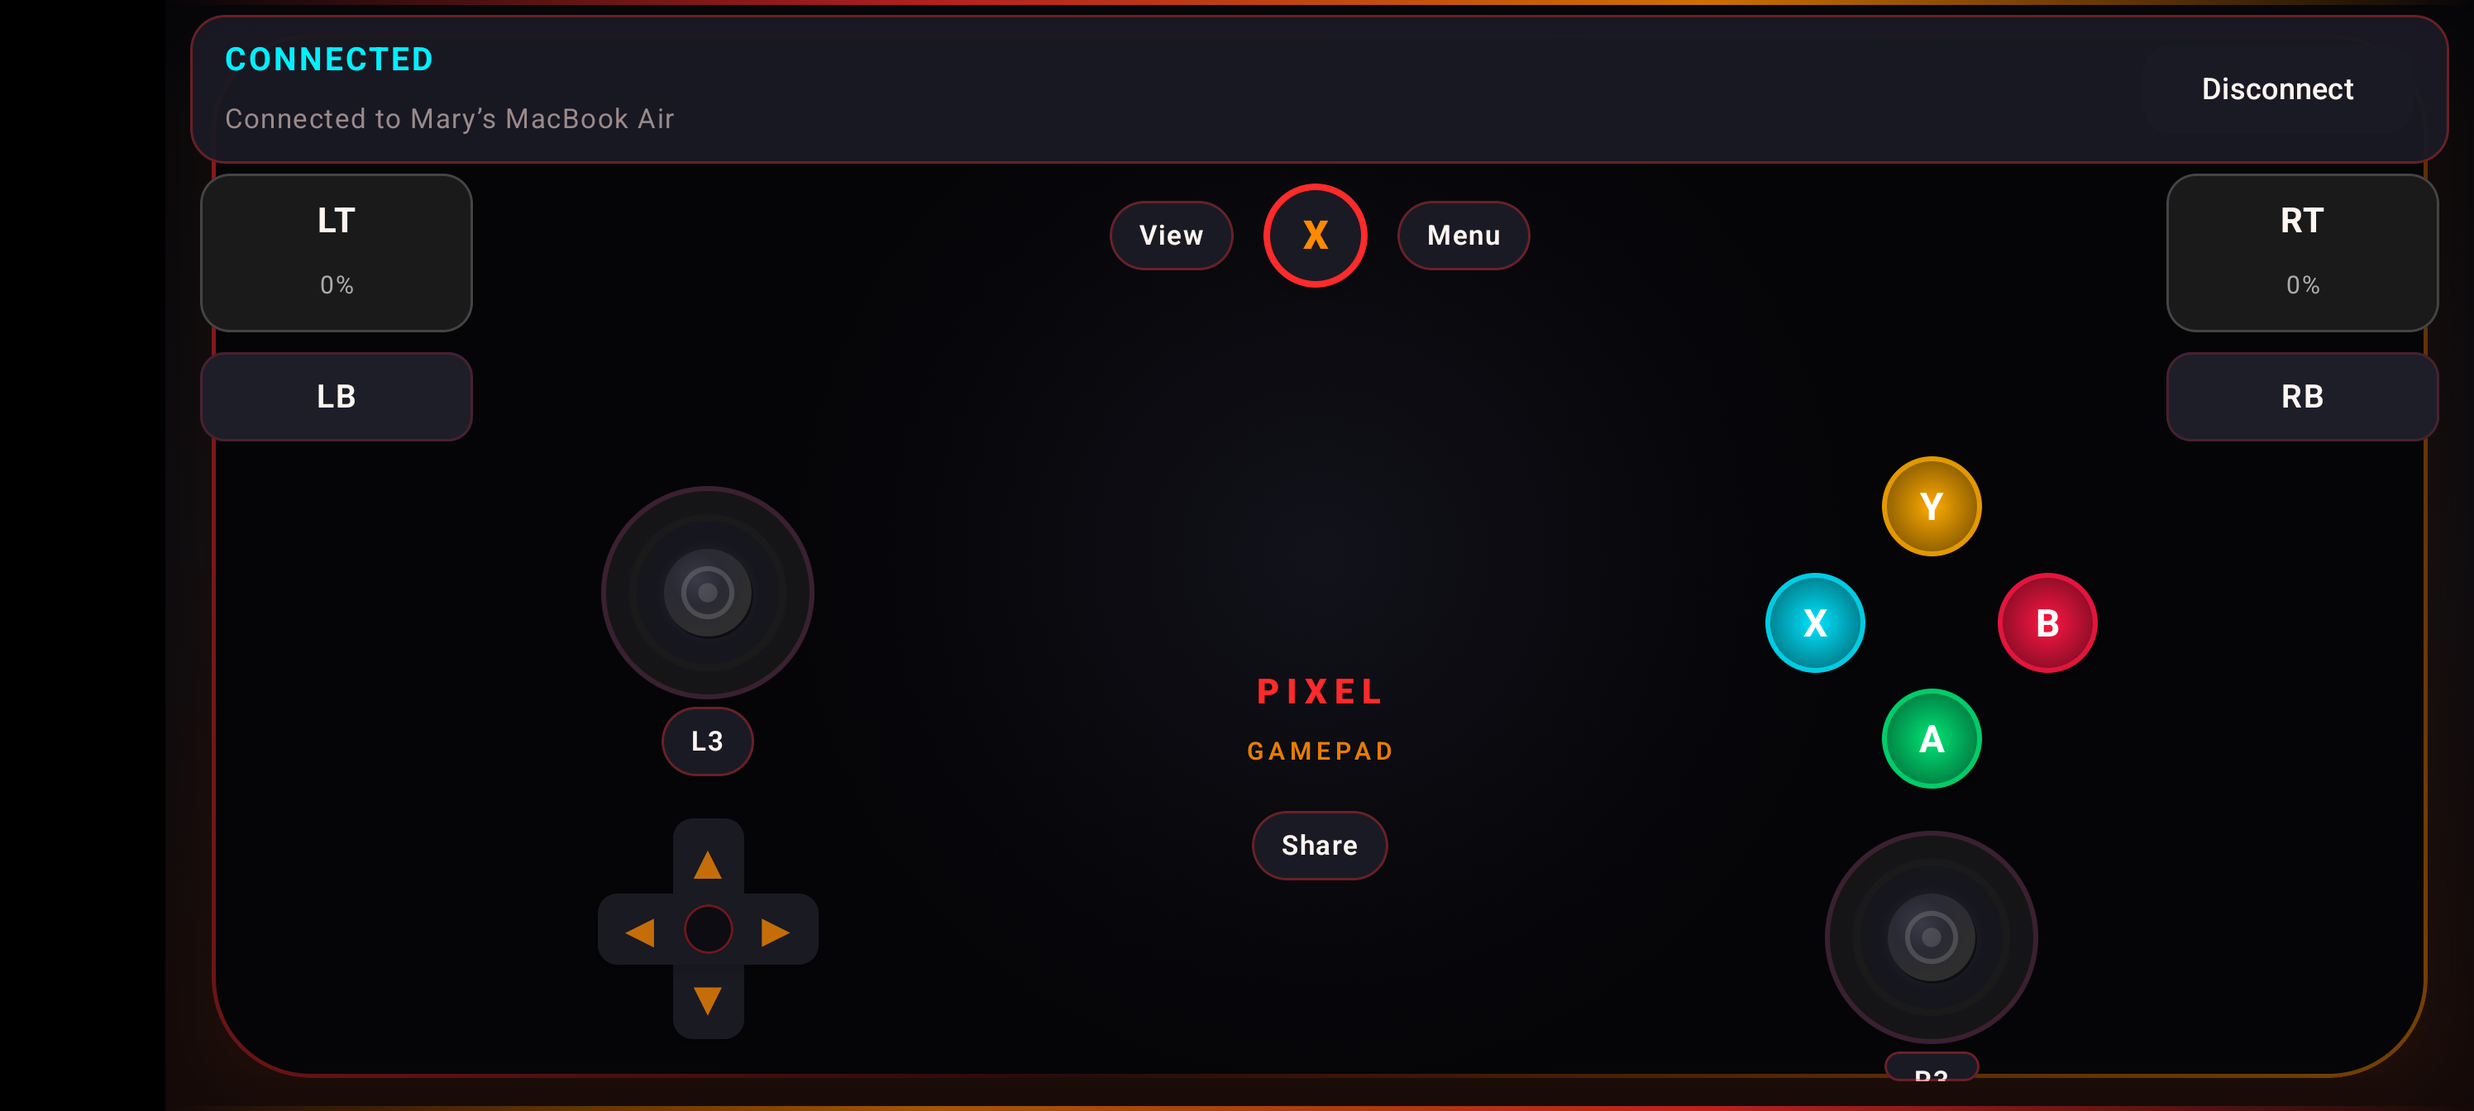
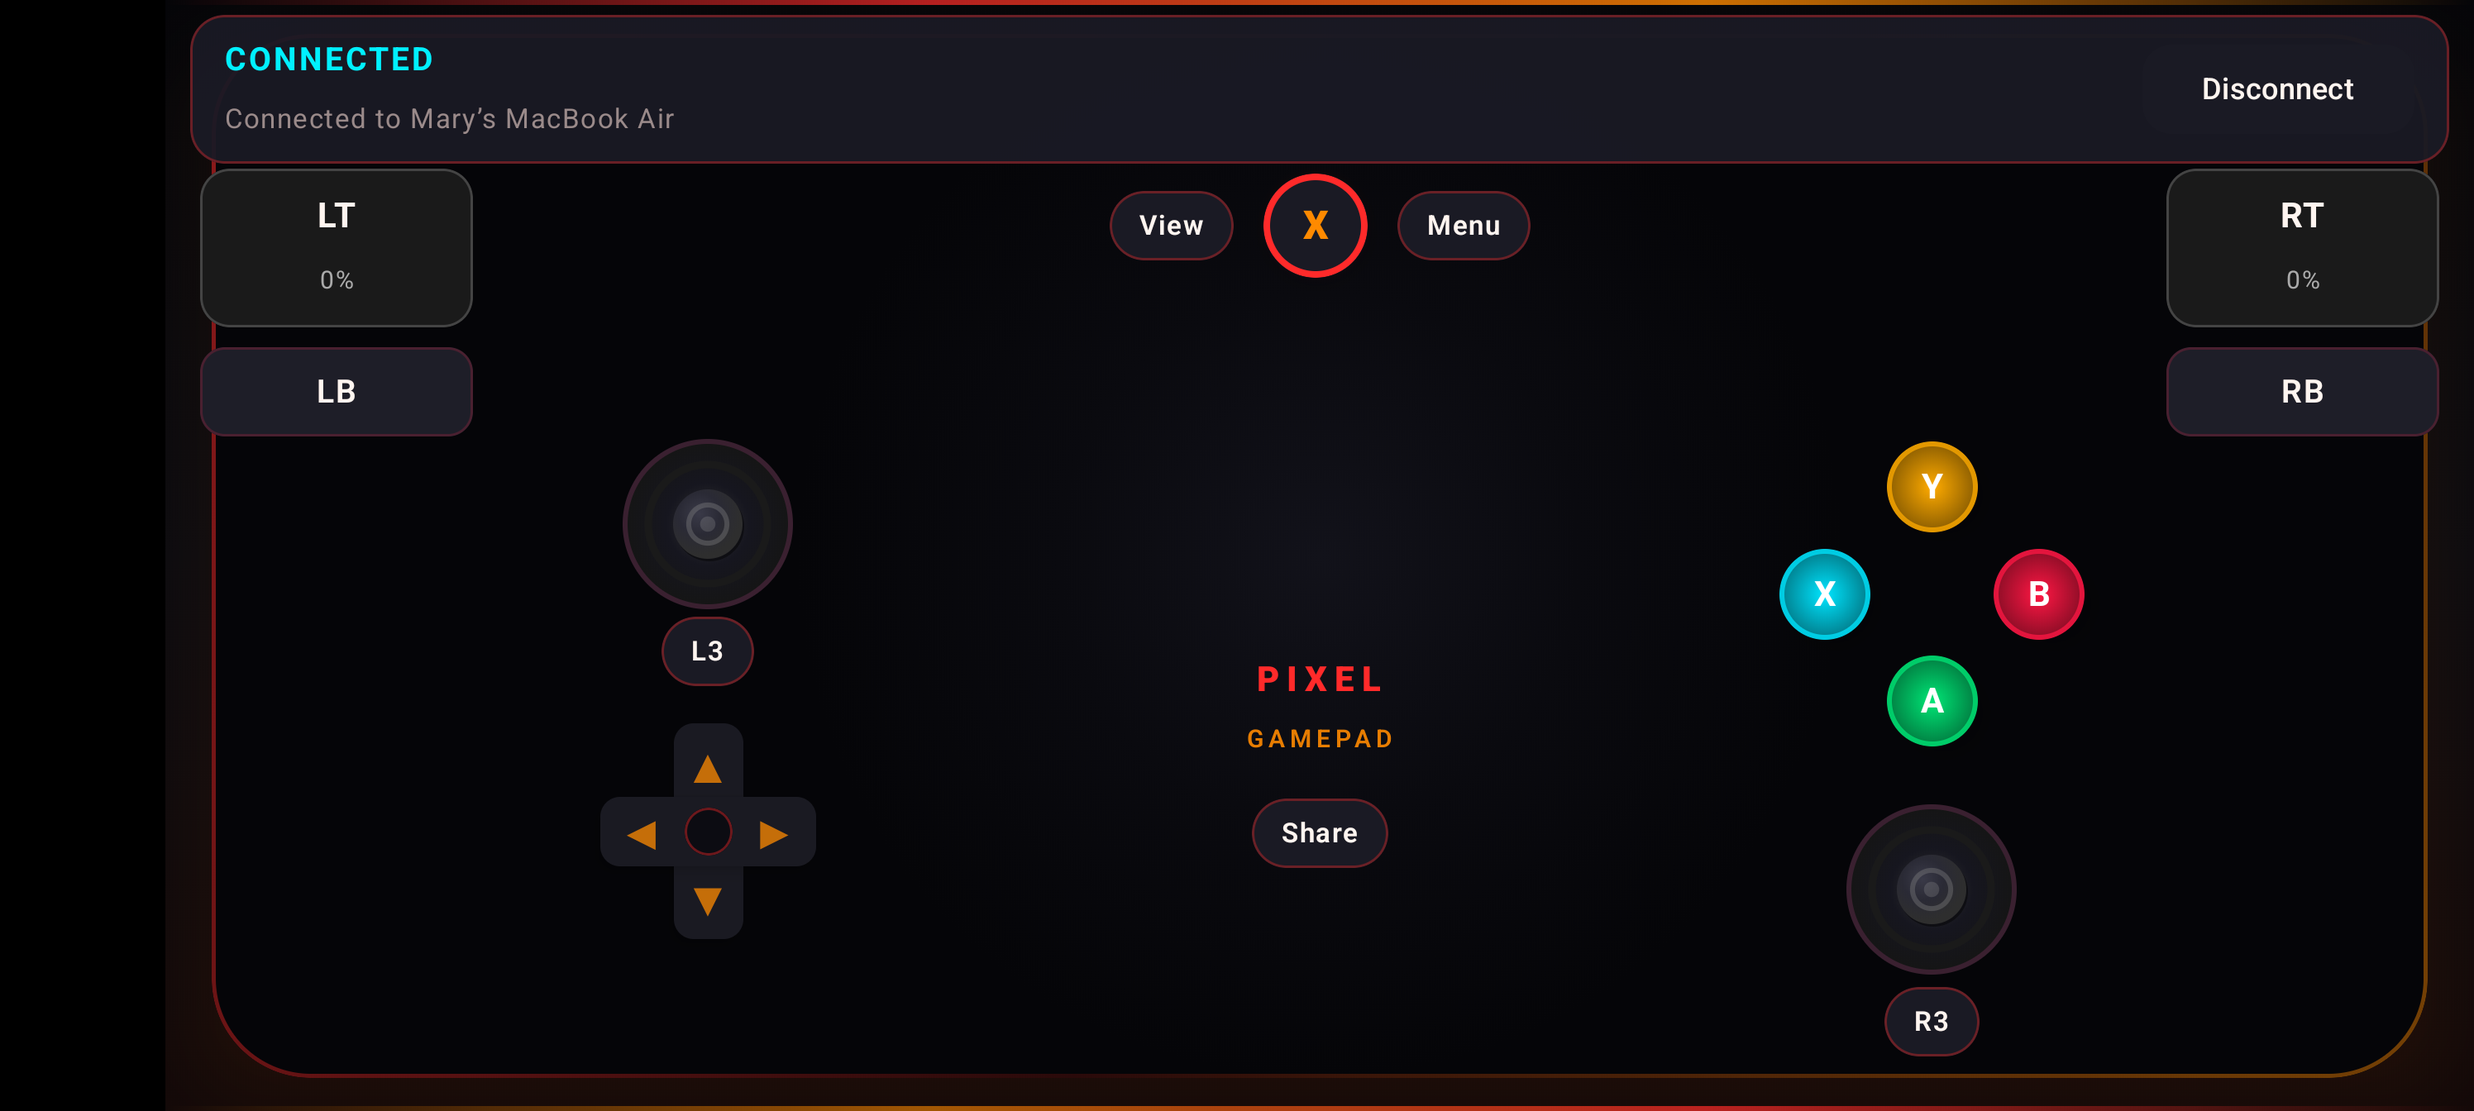
v1.4.3: RS look Y on Rx, independent L3/R3, fatter ABXY, layout polish
- Map right stick Y to HID Rx so Chrome axes[3] receives look vertical
- Stop stick drag from latching L3/R3 (menus no longer spam open while walking)
- ABXY +20% larger; L3↔D-pad spacing; lift RS/face/R3 so R3 is unclipped
- Unit tests for axis usage order; README + landscape screenshot

diff --git a/app/src/main/java/com/controller/xboxhid/ui/ControllerScreen.kt b/app/src/main/java/com/controller/xboxhid/ui/ControllerScreen.kt
@@ -121,11 +121,12 @@ fun ControllerScreen(vm: ControllerViewModel) {
         Column(
             Modifier
                 .fillMaxSize()
-                .padding(horizontal = 10.dp, vertical = 6.dp)
+                // Extra bottom inset so R3 clears the rounded shell clip
+                .padding(start = 10.dp, end = 10.dp, top = 6.dp, bottom = 14.dp)
         ) {
             StatusBar(vm, connected, advertising)
 
-            Spacer(Modifier.height(4.dp))
+            Spacer(Modifier.height(2.dp))
 
             Row(
                 Modifier
@@ -144,7 +145,7 @@ fun ControllerScreen(vm: ControllerViewModel) {
                 Row(
                     verticalAlignment = Alignment.CenterVertically,
                     horizontalArrangement = Arrangement.spacedBy(12.dp),
-                    modifier = Modifier.padding(top = 4.dp)
+                    modifier = Modifier.padding(top = 2.dp)
                 ) {
                     SmallPill("View", s.back, vm::setBack)
                     GuideButton(s.guide, vm::setGuide)
@@ -170,38 +171,39 @@ fun ControllerScreen(vm: ControllerViewModel) {
                 val availH = maxHeight
                 val availW = maxWidth
 
-                val stick = min(min(availH * 0.32f, availW * 0.22f), 148.dp)
-                val dpad = min(min(availH * 0.34f, availW * 0.24f), 148.dp)
-                // Face buttons +20% vs prior stick*0.40 / 52dp caps
-                val faceBtn = min(stick * 0.48f, 62.dp)
-                val faceSpan = min(stick * 0.56f, 72.dp)
-                // Extra space between face cluster (A) and RS (~18dp)
-                val faceToStickGap = 18.dp
+                // Compact sticks so RS+R3 fit above shell curve
+                val stick = min(min(availH * 0.26f, availW * 0.20f), 128.dp)
+                // D-pad ~+20% vs original 148dp
+                val dpad = min(min(availH * 0.34f, availW * 0.26f), 168.dp)
+                // ABXY +20% fatter
+                val faceBtn = min(stick * 0.55f, 70.dp)
+                val faceSpan = min(stick * 0.65f, 82.dp)
+                val faceToStickGap = 12.dp
+                // L3 pill ↔ D-pad (~15px)
+                val l3ToDpadGap = 15.dp
 
                 Row(
                     Modifier.fillMaxSize(),
-                    verticalAlignment = Alignment.CenterVertically,
+                    verticalAlignment = Alignment.Top,
                     horizontalArrangement = Arrangement.SpaceBetween
                 ) {
-                    // LEFT GRIP
+                    // LEFT GRIP: LS + L3, 15dp, larger D-pad
                     Column(
                         horizontalAlignment = Alignment.CenterHorizontally,
-                        verticalArrangement = Arrangement.SpaceEvenly,
+                        verticalArrangement = Arrangement.Top,
                         modifier = Modifier
                             .weight(1f)
                             .fillMaxHeight()
-                            .padding(start = 4.dp, bottom = 6.dp)
+                            .padding(start = 4.dp, top = 0.dp, bottom = 8.dp)
                     ) {
-                        Column(horizontalAlignment = Alignment.CenterHorizontally) {
-                            Joystick(
-                                diameter = stick,
-                                active = s.leftX != 0f || s.leftY != 0f,
-                                onMove = vm::setLeftStick,
-                                onPress = { pressed -> vm.setStickL(pressed) }
-                            )
-                            Spacer(Modifier.height(4.dp))
-                            SmallPill("L3", s.stickL, vm::setStickL)
-                        }
+                        Joystick(
+                            diameter = stick,
+                            active = s.leftX != 0f || s.leftY != 0f,
+                            onMove = vm::setLeftStick
+                        )
+                        Spacer(Modifier.height(4.dp))
+                        SmallPill("L3", s.stickL, vm::setStickL)
+                        Spacer(Modifier.height(l3ToDpadGap))
                         Dpad(
                             size = dpad,
                             arm = dpad * 0.32f,
@@ -242,14 +244,14 @@ fun ControllerScreen(vm: ControllerViewModel) {
                         SmallPill("Share", s.share, vm::setShare)
                     }
 
-                    // RIGHT GRIP: face upper (moved up), gap, RS lower
+                    // RIGHT GRIP: ABXY top, RS+R3 bottom — SpaceBetween keeps R3 on-screen
                     Column(
                         horizontalAlignment = Alignment.CenterHorizontally,
-                        verticalArrangement = Arrangement.Top,
+                        verticalArrangement = Arrangement.SpaceBetween,
                         modifier = Modifier
                             .weight(1f)
                             .fillMaxHeight()
-                            .padding(end = 4.dp, top = 4.dp, bottom = 6.dp)
+                            .padding(end = 4.dp, top = 0.dp, bottom = 8.dp)
                     ) {
                         FaceButtonCluster(
                             buttonSize = faceBtn,
@@ -263,16 +265,15 @@ fun ControllerScreen(vm: ControllerViewModel) {
                             onX = vm::setButtonX,
                             onY = vm::setButtonY
                         )
-                        Spacer(Modifier.height(faceToStickGap))
-                        Spacer(Modifier.weight(1f))
                         Column(horizontalAlignment = Alignment.CenterHorizontally) {
+                            // small gap under face when SpaceBetween collapses
+                            Spacer(Modifier.height(faceToStickGap))
                             Joystick(
                                 diameter = stick,
                                 active = s.rightX != 0f || s.rightY != 0f,
-                                onMove = vm::setRightStick,
-                                onPress = { pressed -> vm.setStickR(pressed) }
+                                onMove = vm::setRightStick
                             )
-                            Spacer(Modifier.height(4.dp))
+                            Spacer(Modifier.height(6.dp))
                             SmallPill("R3", s.stickR, vm::setStickR)
                         }
                     }

diff --git a/app/src/main/java/com/controller/xboxhid/hid/HidDescriptor.kt b/app/src/main/java/com/controller/xboxhid/hid/HidDescriptor.kt
@@ -3,24 +3,37 @@ package com.controller.xboxhid.hid
 /**
  * Standard Bluetooth HID Game Pad descriptor that macOS + Chrome Gamepad API accept.
  *
- * Important design choices for macOS:
+ * Important design choices for macOS / Chrome:
  * - Generic name (not "Xbox Controller") so IOHID does not expect Microsoft's XInput HID
  * - 8-bit axes (0..255, center 128) — widely recognized
  * - Buttons first, then hat, then sticks, then triggers
  * - Report ID 1
  *
+ * Axis USAGE order is critical. Chrome/macOS expose axes sorted by usage id, not
+ * report order:
+ *   X=0x30 → axes[0], Y=0x31 → axes[1], Z=0x32 → axes[2],
+ *   Rx=0x33 → axes[3], Ry=0x34 → axes[4], Rz=0x35 → axes[5]
+ *
+ * Standard Gamepad mapping wants:
+ *   axes[0]=LSX axes[1]=LSY axes[2]=RSX axes[3]=RSY
+ * so we bind:
+ *   X=leftX, Y=leftY, Z=rightX, Rx=rightY, Ry=LT, Rz=RT
+ *
+ * (Older v1.4.x used Z/Rz for the right stick and Rx/Ry for triggers, which put
+ * rightY on axes[5] — games only read axes[3], so look up/down did nothing.)
+ *
  * Report body (9 bytes) after report id is handled by the stack:
  *
  *  Byte 0-1 : Buttons bitfield (16 buttons)
  *             bit0=A 1=B 2=X 3=Y 4=L1 5=R1 6=L2 7=R2
- *             bit8=Back 9=Start 10=L3 11=R3 12=Guide 13=Share
+ *             bit8=Back 9=Start 10=L3 11=R3 12-15=D-pad
  *  Byte 2   : Hat / D-Pad (low nibble: 0=N..7=NW, 8=release; high nibble pad)
- *  Byte 3   : Left stick X  (0..255, center 128)
- *  Byte 4   : Left stick Y
- *  Byte 5   : Right stick X
- *  Byte 6   : Right stick Y
- *  Byte 7   : LT (0..255)
- *  Byte 8   : RT (0..255)
+ *  Byte 3   : Left stick X  (0..255, center 128)   USAGE X
+ *  Byte 4   : Left stick Y                         USAGE Y
+ *  Byte 5   : Right stick X                        USAGE Z
+ *  Byte 6   : Right stick Y                        USAGE Rx
+ *  Byte 7   : LT (0..255)                          USAGE Ry
+ *  Byte 8   : RT (0..255)                          USAGE Rz
  */
 object HidDescriptor {
 
@@ -97,25 +110,20 @@ object HidDescriptor {
         0x95, 0x01,
         0x81, 0x01, // INPUT (Const)
 
-        // ----- Sticks: X, Y, Z, Rz as 8-bit absolute (0..255) -----
-        0x09, 0x30, // X  (left X)
-        0x09, 0x31, // Y  (left Y)
-        0x09, 0x32, // Z  (right X)
-        0x09, 0x35, // Rz (right Y)
+        // ----- Axes (usage order = Chrome axis index order) -----
+        // X, Y, Z, Rx, Ry, Rz  →  axes[0..5]
+        // Standard pad: LSX, LSY, RSX, RSY, LT, RT
+        0x09, 0x30, // X  left X   → axes[0]
+        0x09, 0x31, // Y  left Y   → axes[1]
+        0x09, 0x32, // Z  right X  → axes[2]
+        0x09, 0x33, // Rx right Y  → axes[3]  (look vertical)
+        0x09, 0x34, // Ry LT       → axes[4]
+        0x09, 0x35, // Rz RT       → axes[5]
         0x15, 0x00,
-        0x26, 0xFF, 0x00,
+        0x26, 0xFF, 0x00, // LOGICAL_MAXIMUM (255)
         0x75, 0x08,
-        0x95, 0x04,
-        0x81, 0x02,
-
-        // ----- Triggers: Rx, Ry as 8-bit (0..255) -----
-        0x09, 0x33, // Rx (LT)
-        0x09, 0x34, // Ry (RT)
-        0x15, 0x00,
-        0x26, 0xFF, 0x00,
-        0x75, 0x08,
-        0x95, 0x02,
-        0x81, 0x02,
+        0x95, 0x06,
+        0x81, 0x02, // INPUT (Data,Var,Abs)
 
         // END_COLLECTION
         0xC0

diff --git a/app/src/main/java/com/controller/xboxhid/ui/components/Joystick.kt b/app/src/main/java/com/controller/xboxhid/ui/components/Joystick.kt
@@ -29,6 +29,9 @@ import kotlin.math.min
 /**
  * Floating thumbstick. [onMove] receives normalized x,y in [-1,1] (y positive down).
  * Releases snap back to center.
+ *
+ * Stick click (L3/R3) is NOT tied to drag — use the separate L3/R3 pills.
+ * Previously onPress fired on every drag and spammed menus while walking.
  */
 @Composable
 fun Joystick(
@@ -37,7 +40,7 @@ fun Joystick(
     knobRatio: Float = 0.42f,
     active: Boolean = false,
     onMove: (x: Float, y: Float) -> Unit,
-    onPress: ((Boolean) -> Unit)? = null,
+    @Suppress("UNUSED_PARAMETER") onPress: ((Boolean) -> Unit)? = null,
 ) {
     var knob by remember { mutableStateOf(Offset.Zero) }
     val density = LocalDensity.current
@@ -54,7 +57,6 @@ fun Joystick(
 
                 detectDragGestures(
                     onDragStart = { offset ->
-                        onPress?.invoke(true)
                         val center = Offset(w / 2f, h / 2f)
                         val delta = offset - center
                         val clamped = clampToCircle(delta, travel)
@@ -64,12 +66,10 @@ fun Joystick(
                     onDragEnd = {
                         knob = Offset.Zero
                         onMove(0f, 0f)
-                        onPress?.invoke(false)
                     },
                     onDragCancel = {
                         knob = Offset.Zero
                         onMove(0f, 0f)
-                        onPress?.invoke(false)
                     },
                     onDrag = { change, dragAmount ->
                         change.consume()

diff --git a/app/src/main/java/com/controller/xboxhid/hid/InputReport.kt b/app/src/main/java/com/controller/xboxhid/hid/InputReport.kt
@@ -156,7 +156,12 @@ object InputReport {
         return m
     }
 
-    /** Pack [ControllerState] into a [HidDescriptor.REPORT_SIZE]-byte report body. */
+    /**
+     * Pack [ControllerState] into a [HidDescriptor.REPORT_SIZE]-byte report body.
+     *
+     * Byte layout matches descriptor usages so Chrome axes[] land correctly:
+     *  [3]=X/LSX [4]=Y/LSY [5]=Z/RSX [6]=Rx/RSY [7]=Ry/LT [8]=Rz/RT
+     */
     fun pack(state: ControllerState, out: ByteArray = ByteArray(HidDescriptor.REPORT_SIZE)): ByteArray {
         require(out.size >= HidDescriptor.REPORT_SIZE) { "report buffer too small" }
 
@@ -173,12 +178,12 @@ object InputReport {
         out[0] = (buttons and 0xFF).toByte()
         out[1] = ((buttons ushr 8) and 0xFF).toByte()
         out[2] = (hat and 0x0F).toByte()
-        out[3] = lx.toByte()
-        out[4] = ly.toByte()
-        out[5] = rx.toByte()
-        out[6] = ry.toByte()
-        out[7] = lt.toByte()
-        out[8] = rt.toByte()
+        out[3] = lx.toByte() // X  → axes[0]
+        out[4] = ly.toByte() // Y  → axes[1]
+        out[5] = rx.toByte() // Z  → axes[2]
+        out[6] = ry.toByte() // Rx → axes[3] look Y
+        out[7] = lt.toByte() // Ry → axes[4]
+        out[8] = rt.toByte() // Rz → axes[5]
         return out
     }
 

diff --git a/app/src/test/java/com/controller/xboxhid/hid/InputReportTest.kt b/app/src/test/java/com/controller/xboxhid/hid/InputReportTest.kt
@@ -156,6 +156,27 @@ class InputReportTest {
     }
 
     @Test
+    fun descriptor_axes_map_to_standard_gamepad_indices() {
+        // Chrome sorts Generic Desktop axes by usage id:
+        // X Y Z Rx Ry Rz → axes[0..5] = LSX LSY RSX RSY LT RT
+        val d = HidDescriptor.DESCRIPTOR
+        val usages = mutableListOf<Int>()
+        var i = 0
+        while (i < d.size - 1) {
+            // Look for USAGE (0x09) under Generic Desktop for axis range 0x30..0x35
+            if (d[i] == 0x09.toByte()) {
+                val u = d[i + 1].toInt() and 0xFF
+                if (u in 0x30..0x35) usages.add(u)
+            }
+            i++
+        }
+        assertEquals(
+            listOf(0x30, 0x31, 0x32, 0x33, 0x34, 0x35), // X Y Z Rx Ry Rz
+            usages
+        )
+    }
+
+    @Test
     fun subclass_is_gamepad() {
         assertEquals(0x02.toByte(), HidDescriptor.SUBCLASS_GAMEPAD)
     }

diff --git a/app/src/main/java/com/controller/xboxhid/hid/HidControllerService.kt b/app/src/main/java/com/controller/xboxhid/hid/HidControllerService.kt
@@ -169,7 +169,7 @@ class HidControllerService : Service(), HidDeviceManager.Listener {
         const val ACTION_START = "com.controller.xboxhid.START"
         const val ACTION_STOP = "com.controller.xboxhid.STOP"
         // Bump so caches/logs make the descriptor revision obvious
-        const val HID_PROTOCOL_REV = "gamepad-v1.4.1-stick-y"
+        const val HID_PROTOCOL_REV = "gamepad-v1.4.3-no-l3-drag"
 
         fun start(context: Context) {
             val i = Intent(context, HidControllerService::class.java).setAction(ACTION_START)

diff --git a/app/src/main/java/com/controller/xboxhid/ui/components/FaceButtons.kt b/app/src/main/java/com/controller/xboxhid/ui/components/FaceButtons.kt
@@ -28,8 +28,8 @@ import com.controller.xboxhid.ui.theme.FaceY
 @Composable
 fun FaceButtonCluster(
     modifier: Modifier = Modifier,
-    buttonSize: Dp = 58.dp,
-    span: Dp = 72.dp,
+    buttonSize: Dp = 70.dp,
+    span: Dp = 82.dp,
     aPressed: Boolean,
     bPressed: Boolean,
     xPressed: Boolean,

diff --git a/README.md b/README.md
@@ -4,7 +4,7 @@
 
 Turn an **Android 9+** phone into a **Bluetooth Xbox-style gamepad** with a neon cyberpunk skin. Your MacBook pairs it like a real controller — no Mac app required. Works with **Xbox Cloud Gaming** (`xbox.com/play`) via the browser Gamepad API.
 
-**v1.4.1** — Stick Y polarity fixed for Chrome/Xbox Cloud (look up = HID 0). **v1.4.0** — D-pad dual-report, cyberpunk neon UI, larger ABXY, equal sticks.
+**v1.4.3** — Right-stick look Y on HID Rx (Chrome `axes[3]`), L3/R3 no longer fire on stick drag, larger ABXY, L3↔D-pad gap, R3 unclipped. **v1.4.1** — Stick Y polarity (look up = HID 0). **v1.4.0** — D-pad dual-report + cyberpunk neon UI.
 
 ```
 Android App (Compose UI + HID Profile) ──Bluetooth──▶ Mac sees "Pixel Gamepad"
@@ -21,8 +21,10 @@ Typical latency: **~20–40 ms** over Bluetooth HID — playable for cloud gamin
 - HID report descriptor for a standard **gamepad** (8-bit dual sticks, LT/RT, 16 buttons, hat D-pad)
 - **D-pad dual-report**: hat switch **and** buttons 13–16 so Chrome / Xbox Cloud map Up/Down/Left/Right correctly
 - **Cyberpunk neon** UI (red / black / orange) — Jetpack Compose Xbox One geometry
-- Equal-size dual sticks; face buttons +20%; extra gap between A and right stick
-- Adaptive layout sized to the viewport so sticks match and the D-pad is never clipped
+- Equal-size dual sticks; face buttons +20% fatter; extra gap between A and right stick
+- **L3 / R3 independent** of stick drag (no accidental click while walking)
+- Right stick Y mapped to HID **Rx** so Chrome Gamepad API `axes[3]` gets look vertical
+- Adaptive layout: L3↔D-pad gap, larger D-pad, R3 fully on-screen
 - Advertises as **Pixel Gamepad** (generic HID) so macOS does not expect proprietary Xbox reports
 - Foreground service pumps reports at **~125 Hz**
 - One-shot **install script** via `adb`
